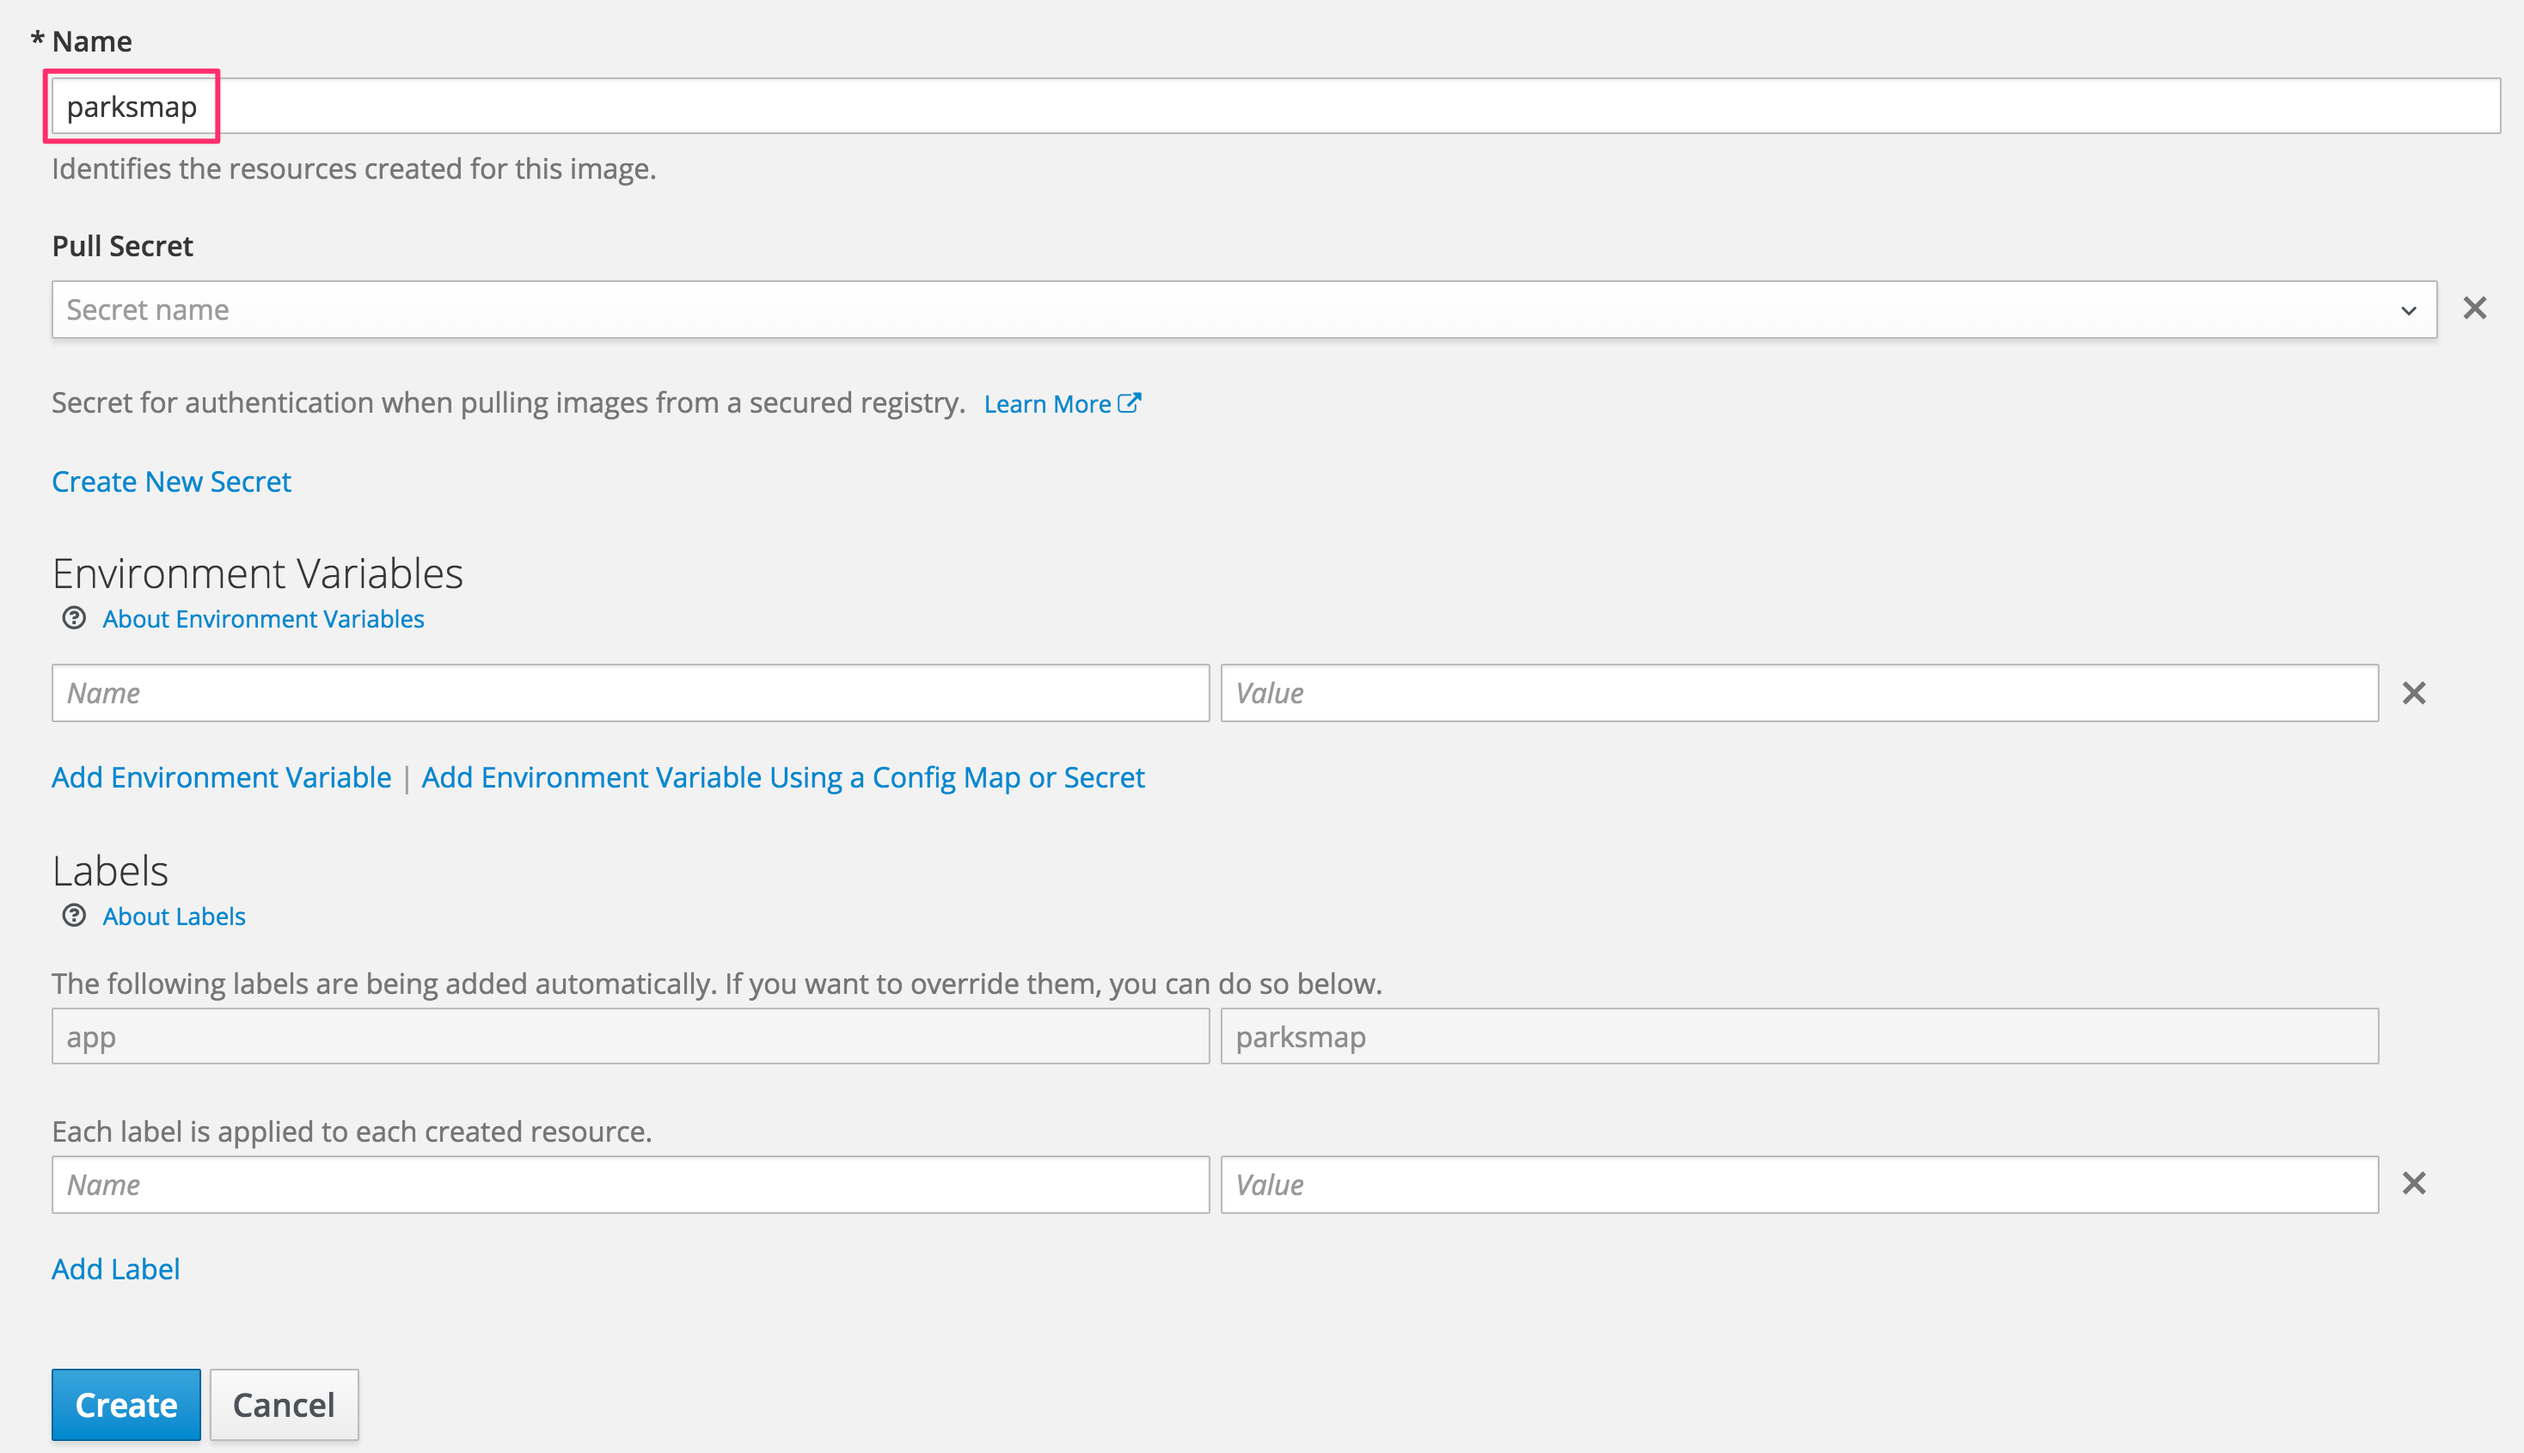
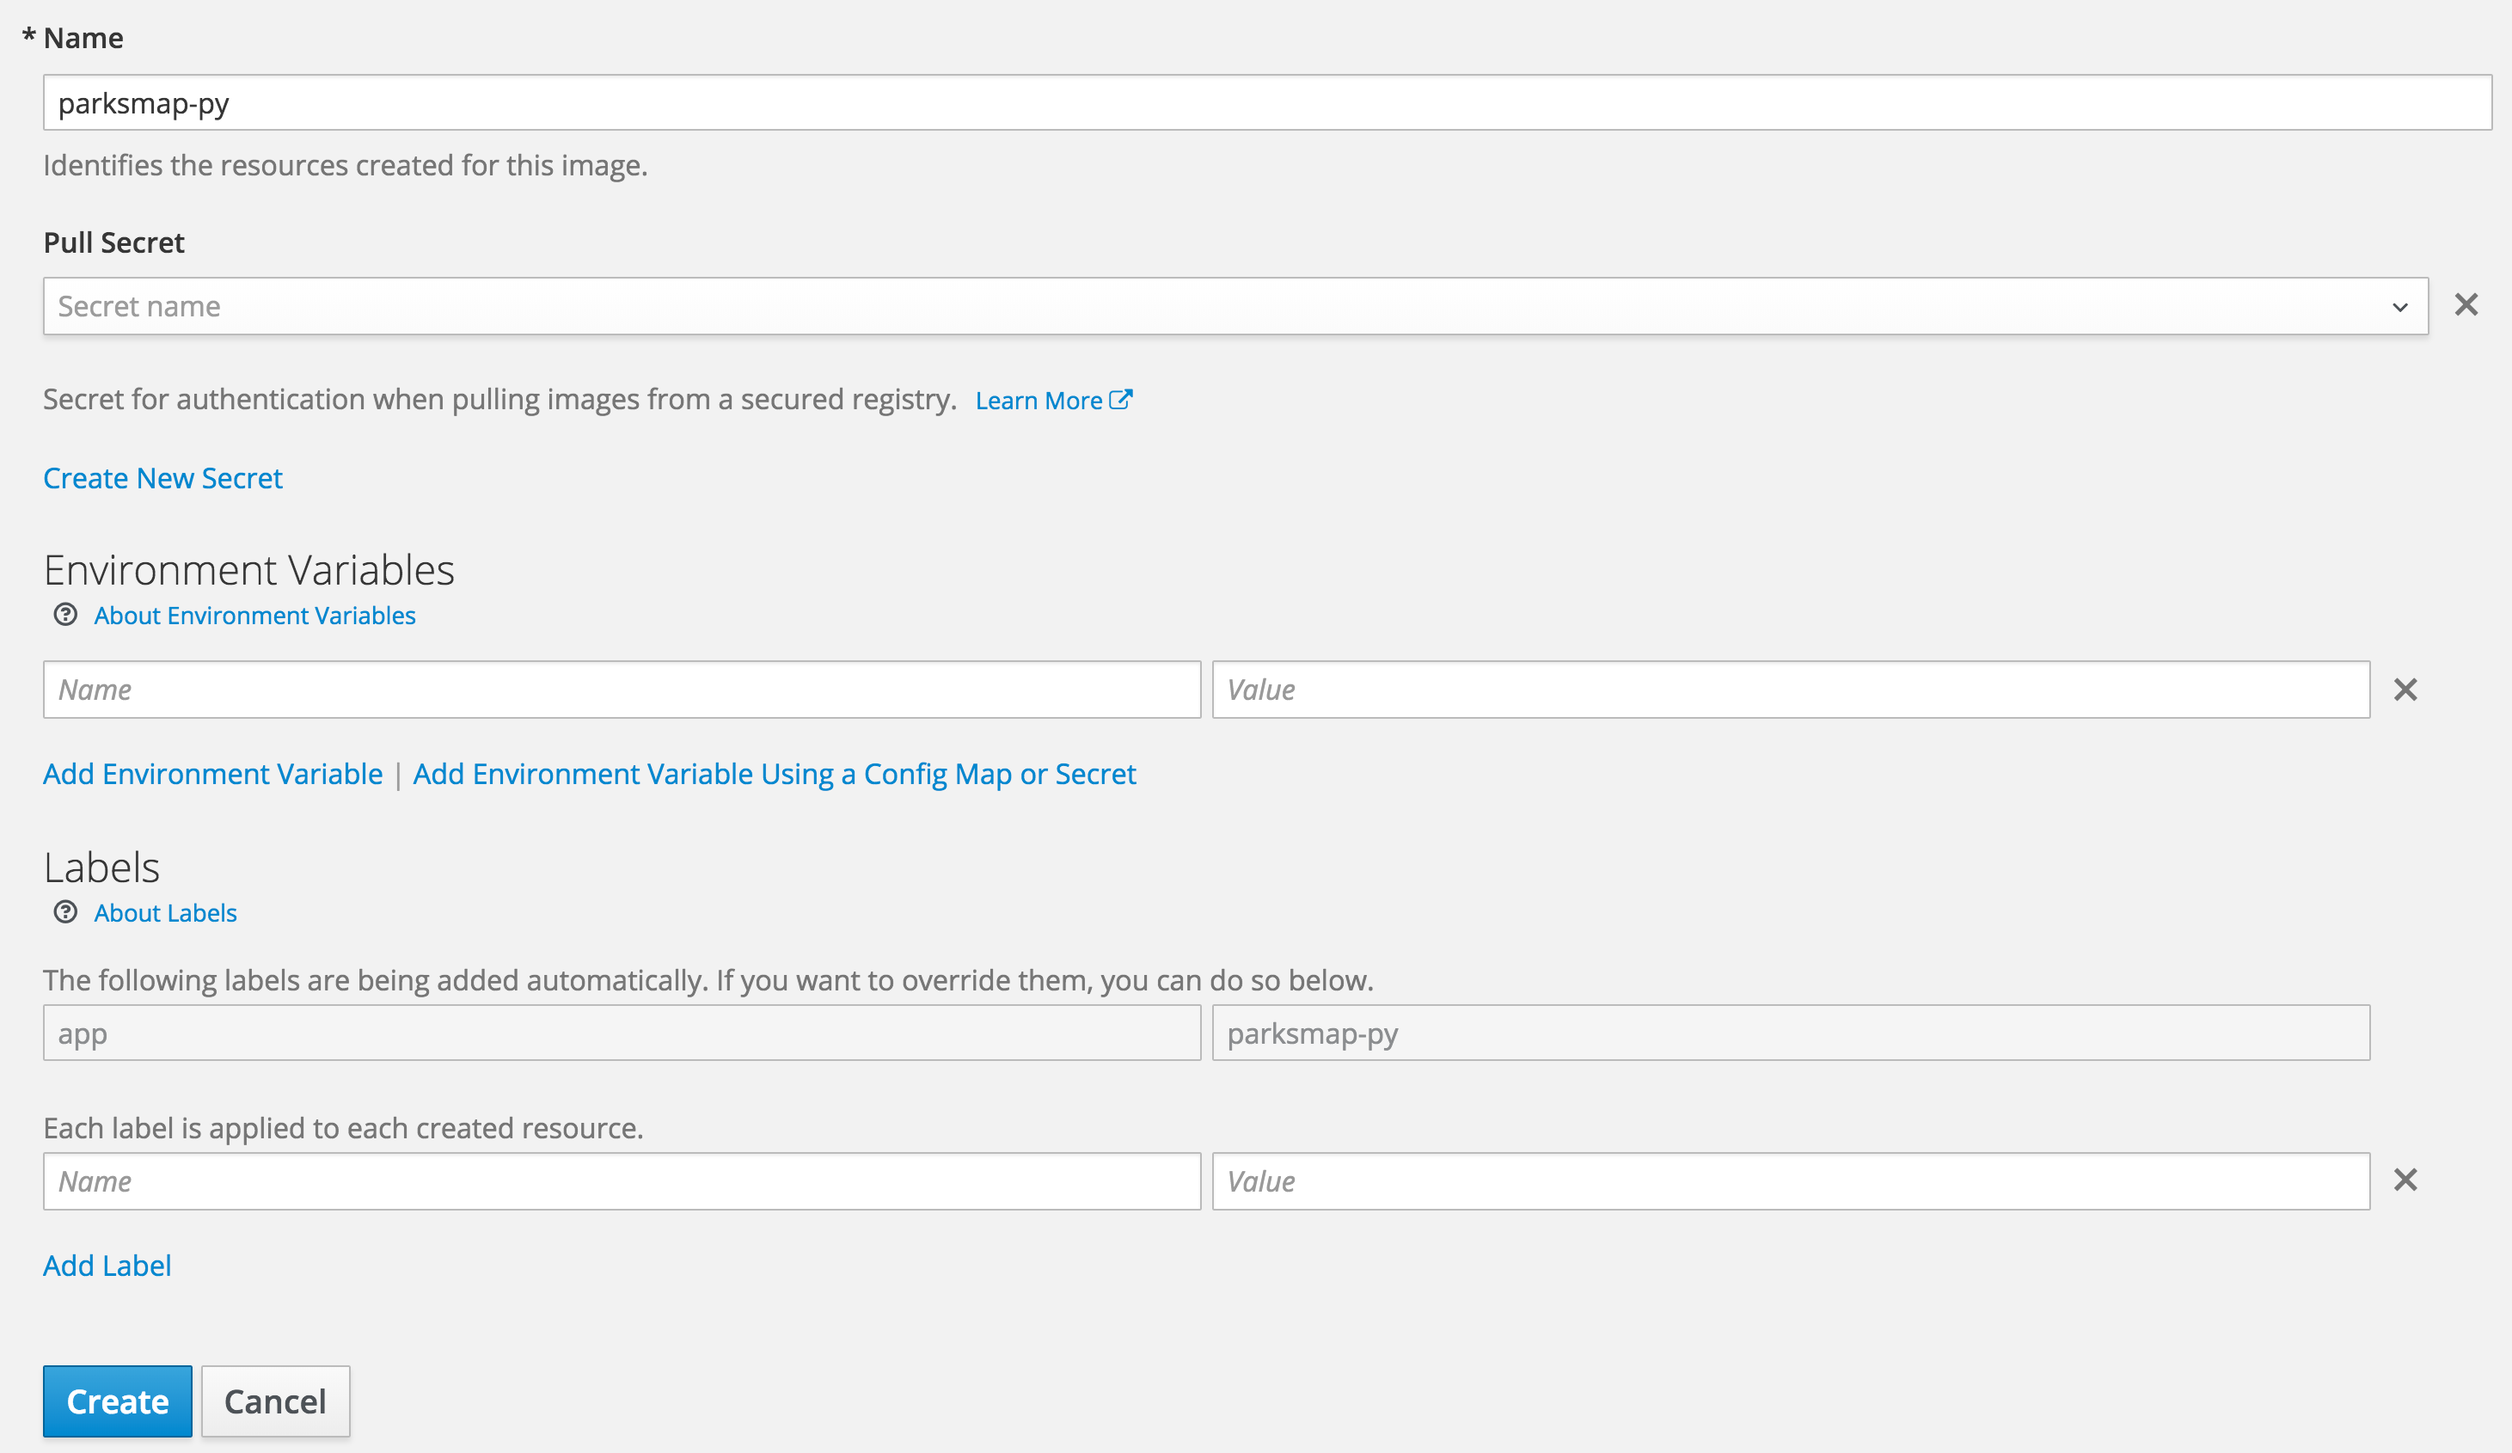
Change application naming.

diff --git a/intro-openshift/training-tutorial-1/02-deploying-an-existing-container-image.md b/intro-openshift/training-tutorial-1/02-deploying-an-existing-container-image.md
@@ -1,4 +1,4 @@
-In this exercise you are going to deploy the front end web component of the ParksMap application which is called `parksmap`. The front end uses a dynamic service discovery mechanism to discover what backend services have been deployed and shows their data on the map.
+In this exercise you are going to deploy the front end web component of the ParksMap application. The front end uses a dynamic service discovery mechanism to discover what backend services have been deployed and shows their data on the map.
 
 ![Web Console Login](../../assets/intro-openshift/training-tutorial-1/02-application-architecture-stage-1.png)
 
@@ -12,7 +12,7 @@ https://[[HOST_SUBDOMAIN]]-8443-[[KATACODA_HOST]].environments.katacoda.com
 
 Return to the project overview page for the `myproject` project. Next, click the _Add to Project_ drop down menu in the top navigation bar. Select the _Deploy Image_ option.
 
-We will learn more about image streams and image stream tags later. For now,
+You will learn more about image streams and image stream tags later. For now,
 select the _Image Name_ option, and copy/paste the following into the text entry field for _image name or pull spec_:
 
 ``docker.io/openshiftroadshow/parksmap-py:1.0.0``{{copy}}
@@ -25,14 +25,6 @@ Your screen should look like:
 
 With the query complete and the details available, you should also now be
 presented with options to set the name of the application and add additional configuration such as environment variables and labels.
-
-For now, ensure you change the application name from:
-
-``parksmap-py``
-
-to:
-
-``parksmap``{{copy}}
 
 ![Deploy Application Image](../../assets/intro-openshift/training-tutorial-1/02-deploy-application-image.png)
 
@@ -64,7 +56,7 @@ server, a log analyzer, and a file service to help manage uploaded files.
 
 In the web console's overview page you will see that there is a single *Pod* that
 was created by your actions. This *Pod* contains a single container, which
-is the `parksmap` application.
+is the `parksmap-py` application.
 
 You can also examine *Pods* from the command line:
 
@@ -73,8 +65,8 @@ You can also examine *Pods* from the command line:
 You should see output that looks similar to:
 
 ```
-NAME               READY     STATUS    RESTARTS   AGE
-parksmap-1-cf6b6   1/1       Running   0          2m
+NAME                  READY     STATUS    RESTARTS   AGE
+parksmap-py-1-713cw   1/1       Running   0          1m
 ```
 
 The above output lists all of the *Pods* in the current *Project*, including the
@@ -83,33 +75,37 @@ get more information about the *Pod* using the ``oc get`` command.  To make the
 output readable, you can set the output type to *YAML* using the
 `-o yaml` option.
 
-```
-oc get pod parksmap-1-cf6b6 -o yaml
-```
+``oc get pods -o yaml``{{execute}}
 
-NOTE: You will need to enter this command into the _Terminal_ yourself as you need to use the correct *Pod* name corresponding to what you have running.
+This will output a list with the details of all *Pods*. If you want to restrict the output to a single *Pod* pass the name of the *Pod* to the ``oc get pod`` command.
 
 You should see output which starts with a description similar to that below:
 
 ```
+kind: List
+metadata: {}
+resourceVersion: ""
+selfLink: ""
 apiVersion: v1
-kind: Pod
-metadata:
-  annotations:
-    openshift.io/deployment-config.latest-version: "1"
-    openshift.io/deployment-config.name: parksmap
-    openshift.io/deployment.name: parksmap-1
-    openshift.io/generated-by: OpenShiftWebConsole
-    openshift.io/scc: restricted
-  creationTimestamp: 2017-12-12T10:00:42Z
-  generateName: parksmap-1-
-  labels:
-    app: parksmap
-    deployment: parksmap-1
-    deploymentconfig: parksmap
-  name: parksmap-1-cf6b6
-  namespace: myproject
-  ...
+items:
+- apiVersion: v1
+  kind: Pod
+  metadata:
+    annotations:
+      openshift.io/deployment-config.latest-version: "1"
+      openshift.io/deployment-config.name: parksmap-py
+      openshift.io/deployment.name: parksmap-py-1
+      openshift.io/generated-by: OpenShiftWebConsole
+      openshift.io/scc: restricted
+    creationTimestamp: 2017-12-12T10:45:48Z
+    generateName: parksmap-py-1-
+    labels:
+      app: parksmap-py
+      deployment: parksmap-py-1
+      deploymentconfig: parksmap-py
+    name: parksmap-py-1-713cw
+    namespace: myproject
+    ...
 ```
 
 The web interface also shows a lot of the same information on the *Pod* details
@@ -122,7 +118,7 @@ _Pods_. This will give you a list of the *Pods* for the application. Click on th
 *Services* provide a convenient abstraction layer inside OpenShift to find a
 group of like *Pods*. They also act as an internal proxy/load balancer between
 those *Pods* and anything else that needs to access them from inside the
-OpenShift environment. For example, if you needed to start up multiple instances of the `parksmap` application to
+OpenShift environment. For example, if you needed to start up multiple instances of the `parksmap-py` application to
 handle the volume of requests to it, you could spin up more *Pods*. OpenShift automatically maps
 them as endpoints to the *Service*, and the incoming requests would not notice
 anything different except that the *Service* was now doing a better job handling
@@ -137,8 +133,8 @@ The way that a *Service* maps to a set of *Pods* is via a system of *Labels* and
 *Selectors*. *Services* are assigned their own IP address and many ports and
 protocols can be mapped.
 
-Now that we understand the basics of what a *Service* is, let's take a look at
-the *Service* that was created for the image that we just deployed.  In order to
+Now that you understand the basics of what a *Service* is, let's take a look at
+the *Service* that was created for the image that you just deployed.  In order to
 view the *Services* defined in your *Project*, enter in the following command:
 
 ``oc get services``{{execute}}
@@ -146,11 +142,11 @@ view the *Services* defined in your *Project*, enter in the following command:
 You should see output similar to the following:
 
 ```
-NAME       CLUSTER-IP       EXTERNAL-IP   PORT(S)    AGE
-parksmap   172.30.169.213   <none>        8080/TCP   3m
+NAME          CLUSTER-IP     EXTERNAL-IP   PORT(S)    AGE
+parksmap-py   172.30.17.45   <none>        8080/TCP   2m
 ```
 
-In the above output, we can see that we have a *Service* named `parksmap` with an
+In the above output, you can see that you have a *Service* named `parksmap-py` with an
 IP/Port combination of 172.30.169.213/8080TCP. Your IP address may be different, as
 each *Service* receives a unique IP address upon creation. *Service* IPs are
 eternal and never change for the life of the *Service*.
@@ -161,7 +157,7 @@ and then clicking _Services_.
 You can also get more detailed information about a *Service* by using the
 following command to display the data in YAML:
 
-``oc get service parksmap -o yaml``{{execute}}
+``oc get service parksmap-py -o yaml``{{execute}}
 
 You should see output similar to the following:
 
@@ -171,23 +167,23 @@ kind: Service
 metadata:
   annotations:
     openshift.io/generated-by: OpenShiftWebConsole
-  creationTimestamp: 2017-12-12T10:18:01Z
+  creationTimestamp: 2017-12-12T10:45:46Z
   labels:
-    app: parksmap
-  name: parksmap
+    app: parksmap-py
+  name: parksmap-py
   namespace: myproject
-  resourceVersion: "1593"
-  selfLink: /api/v1/namespaces/myproject/services/parksmap
-  uid: bb7c852d-df25-11e7-ad7e-0242ac110022
+  resourceVersion: "1704"
+  selfLink: /api/v1/namespaces/myproject/services/parksmap-py
+  uid: 9c04735e-df29-11e7-b74a-0242ac110068
 spec:
-  clusterIP: 172.30.255.86
+  clusterIP: 172.30.17.45
   ports:
   - name: 8080-tcp
     port: 8080
     protocol: TCP
     targetPort: 8080
   selector:
-    deploymentconfig: parksmap
+    deploymentconfig: parksmap-py
   sessionAffinity: None
   type: ClusterIP
 status:
@@ -198,51 +194,51 @@ Take note of the `selector` stanza. Remember it.
 
 It is also of interest to view the YAML of the *Pod* to understand how OpenShift
 wires components together.  For example, run the following command to get the
-name of your `parksmap` *Pod*:
+name of your `parksmap-py` *Pod*:
 
-Run ``oc get pod -o yaml`` against the *Pod* again:
+Run again the command:
 
 ```
-oc get pod parksmap-1-cf6b6 -o yaml
+oc get pods -o yaml
 ```
 
 Under the `metadata` section you should see the following:
 
 ```
 labels:
-  app: parksmap
-  deployment: parksmap-1
-  deploymentconfig: parksmap
+  app: parksmap-py
+  deployment: parksmap-py-1
+  deploymentconfig: parksmap-py
 ```
 
 The *Service* has `selector` stanza that refers to `deploymentconfig=parksmap`.
 
 The *Pod* has multiple *Labels*:
 
-* `deploymentconfig=parksmap`
+* `deploymentconfig=parksmap-py`
 
-* `app=parksmap`
+* `app=parksmap-py`
 
-* `deployment=parksmap-1`
+* `deployment=parksmap-py-1`
 
 *Labels* are just key/value pairs. Any *Pod* in this *Project* that has a *Label* that
 matches the *Selector* will be associated with the *Service*. To see this in
 action, issue the following command:
 
-``oc describe service parksmap``{{execute}}
+``oc describe service parksmap-py``{{execute}}
 
 You should see something like the following output:
 
 ```
-Name:                   parksmap
+Name:                   parksmap-py
 Namespace:              myproject
-Labels:                 app=parksmap
+Labels:                 app=parksmap-py
 Annotations:            openshift.io/generated-by=OpenShiftWebConsole
-Selector:               deploymentconfig=parksmap
+Selector:               deploymentconfig=parksmap-py
 Type:                   ClusterIP
-IP:                     172.30.255.86
+IP:                     172.30.17.45
 Port:                   8080-tcp        8080/TCP
-Endpoints:              172.20.0.3:8080
+Endpoints:              172.20.0.5:8080
 Session Affinity:       None
 Events:                 <none>
 ```
